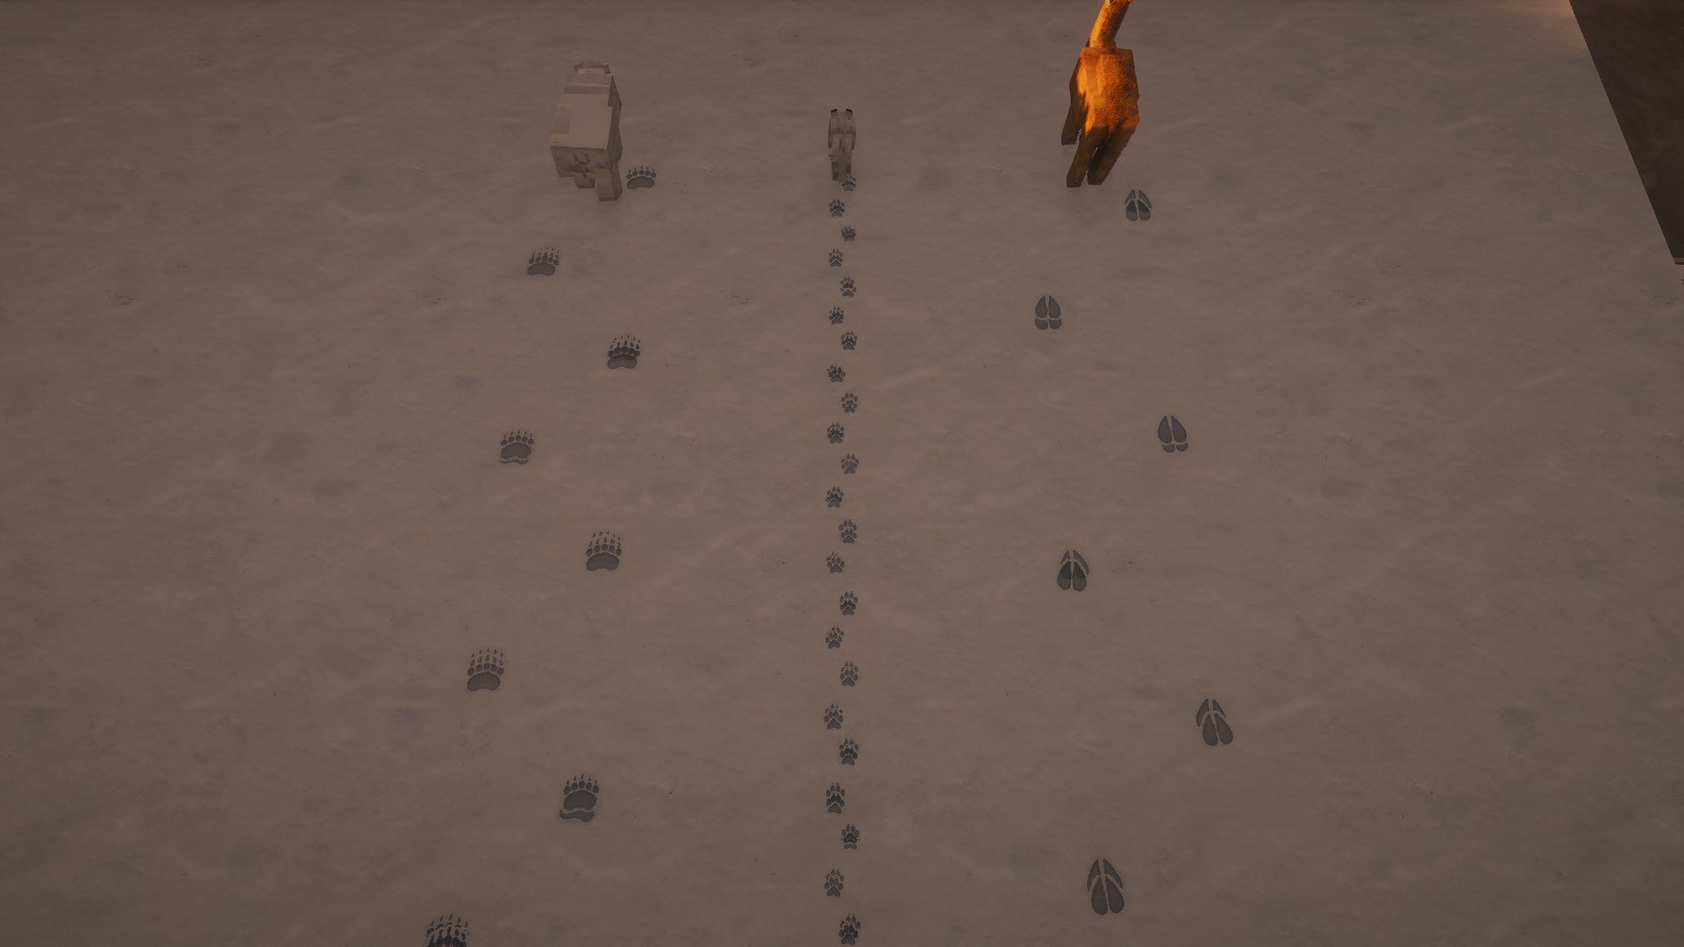
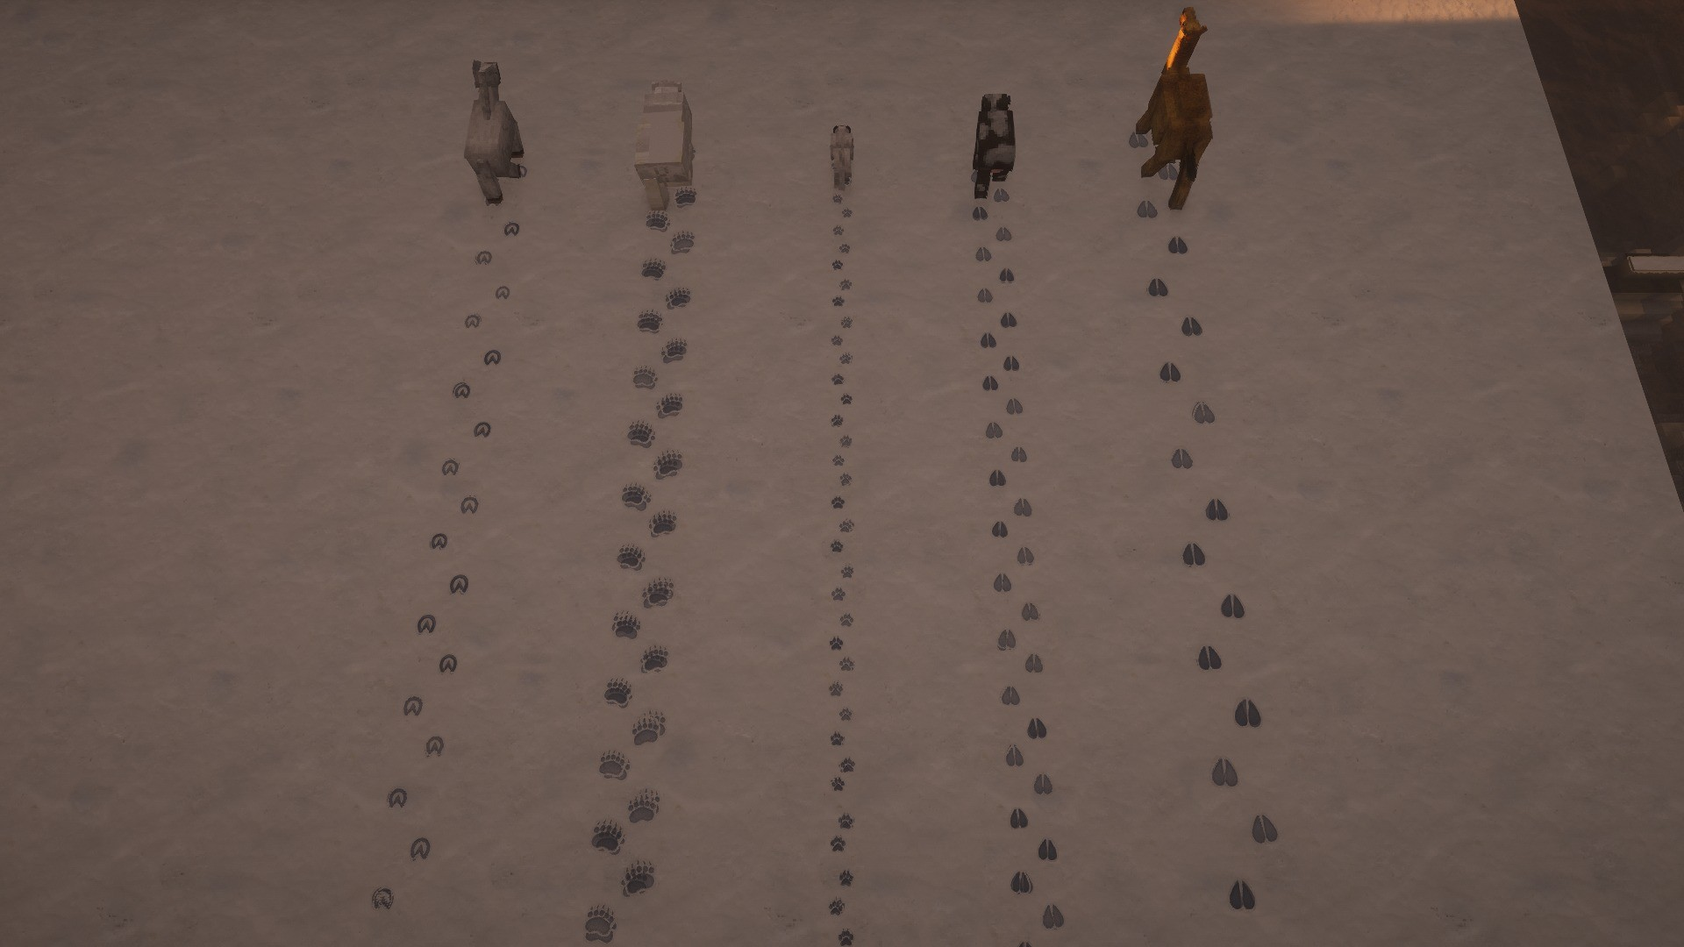
Quadruped tracks from the real hips of each model; hoof frog points at the toe
The trails of big animals were up to three times wider than the animal: the foot offset was
scaled by the bounding box on top of a per-profile spacing, so a polar bear's prints landed a
block to each side of it and a camel's two blocks apart, with steps far longer than its legs.

Every four-legged mob now has its own profile built from the vanilla model's leg pivots and
renderer scale (wolf, fox, armadillo, cat, ocelot, creeper, horse, donkey, mule, cow, llama,
pig/sheep, goat, hoglin, polar bear, panda, camel, sniffer with six legs, ravager). The front
foot prints just ahead of its hip; every foot behind it on the same side lands in that print
once its own hip gets there (direct register, as in real walking and trotting tracks), at its
own stance width. Bears overstep a little and turn their toes in. Stride is about 0.7 of the
hip-to-hip distance and grows with speed; babies are scaled down.

The Codex horse print had its frog pointing at the heel; tools/build_footprints.py now flips
the frog so its point faces the toe, and the atlases are rebuilt.

Media re-recorded with the new tracks; media/publish_media.sh rebuilds trailer, banner, logo,
card, gallery and GIFs in one go.

diff --git a/src/main/java/online/farmsteadminecraft/footprints/client/FootProfile.java b/src/main/java/online/farmsteadminecraft/footprints/client/FootProfile.java
@@ -1,27 +1,79 @@
 package online.farmsteadminecraft.footprints.client;
 
 /**
- * How a kind of entity walks.
+ * How a kind of entity walks and what its feet leave behind. All distances are blocks for an adult
+ * (babies are scaled by the entity's scale).
  *
- * @param left       mask for the left foot
- * @param right      mask for the right foot
- * @param stride     blocks travelled between two prints
- * @param spacing    sideways distance of a foot from the body centre
- * @param quadruped  four-legged: the hind foot lands in the front print of its side (a doubled print)
- * @param scale      size multiplier for the mask
+ * <p>Two-legged walkers alternate left and right {@code stride} apart, {@code spacing} off the
+ * centre line.</p>
+ *
+ * <p>Four-legged (and six-legged) walkers follow real track patterns: in a walk or trot the feet of
+ * one side come down one after another in the same place — the hind foot lands in the print the front
+ * foot of that side just left ("direct register"). So the trail is a single zig-zag line of prints,
+ * left, right, left, as wide as the animal's stance and no wider. {@code legs} are the hip positions
+ * of one side taken from the vanilla model, front first: {lateral, forward, lateral, forward, ...}.
+ * A hind foot lands {@code register} ahead of the front print (bears overstep a little, so their hind
+ * print sits just in front of and outside the front one), and at its own lateral offset.</p>
+ *
+ * @param left      mask for the left foot
+ * @param right     mask for the right foot
+ * @param stride    blocks between two successive prints (left to right) at walking pace
+ * @param spacing   two-legged: sideways distance of a foot from the centre line
+ * @param legs      four-legged: hips of one side, front first, as {lateral, forward} pairs; null for bipeds
+ * @param register  four-legged: how far ahead of the front print the hind feet land
+ * @param toeIn     degrees the toes turn towards the centre line (bears walk pigeon-toed)
+ * @param scale     size multiplier for the mask
  */
-public record FootProfile(FootShape left, FootShape right, float stride, float spacing, boolean quadruped, float scale) {
-    public static final FootProfile BOOTS = new FootProfile(FootShape.BOOT_LEFT, FootShape.BOOT_RIGHT, 0.92f, 0.13f, false, 1f);
-    public static final FootProfile BAREFOOT = new FootProfile(FootShape.BARE_LEFT, FootShape.BARE_RIGHT, 0.92f, 0.13f, false, 1f);
-    public static final FootProfile CHILD = new FootProfile(FootShape.BARE_LEFT, FootShape.BARE_RIGHT, 0.55f, 0.08f, false, 0.6f);
-    public static final FootProfile PAW = new FootProfile(FootShape.PAW, FootShape.PAW, 0.62f, 0.12f, true, 1f);
-    public static final FootProfile SMALL_PAW = new FootProfile(FootShape.CAT, FootShape.CAT, 0.42f, 0.09f, true, 1f);
-    public static final FootProfile HOOF = new FootProfile(FootShape.HOOF, FootShape.HOOF, 0.95f, 0.22f, true, 1.1f);
-    public static final FootProfile SMALL_HOOF = new FootProfile(FootShape.CLOVEN, FootShape.CLOVEN, 0.6f, 0.16f, true, 1f);
-    public static final FootProfile BIRD = new FootProfile(FootShape.BIRD, FootShape.BIRD, 0.30f, 0.09f, false, 0.8f);
-    public static final FootProfile GIANT = new FootProfile(FootShape.BIG_LEFT, FootShape.BIG_RIGHT, 1.45f, 0.42f, false, 1f);
-    public static final FootProfile CLOVEN = new FootProfile(FootShape.CLOVEN, FootShape.CLOVEN, 0.95f, 0.22f, true, 1.25f);
-    /** Camels walk on two broad toes: the cloven mask, much larger. */
-    public static final FootProfile CAMEL = new FootProfile(FootShape.CLOVEN, FootShape.CLOVEN, 1.2f, 0.36f, true, 1.9f);
-    public static final FootProfile GIANT_PAW = new FootProfile(FootShape.BEAR, FootShape.BEAR, 1.1f, 0.38f, true, 1.2f);
+public record FootProfile(FootShape left, FootShape right, float stride, float spacing, float[] legs, float register,
+                          float toeIn, float scale) {
+
+    public boolean quadruped() {
+        return legs != null;
+    }
+
+    static FootProfile biped(FootShape left, FootShape right, float stride, float spacing, float scale) {
+        return new FootProfile(left, right, stride, spacing, null, 0f, 0f, scale);
+    }
+
+    /** {@code legs}: model pivots of the left legs in model pixels (x, z), front first; {@code model} the renderer scale. */
+    static FootProfile quad(FootShape shape, float scale, float stride, float register, float toeIn, float model, float... legs) {
+        float[] blocks = new float[legs.length];
+        for (int i = 0; i < legs.length; i += 2) {
+            blocks[i] = Math.abs(legs[i]) / 16f * model;   // lateral
+            blocks[i + 1] = -legs[i + 1] / 16f * model;     // model -z is forward
+        }
+        return new FootProfile(shape, shape, stride, 0f, blocks, register, toeIn, scale);
+    }
+
+    public static final FootProfile BOOTS = biped(FootShape.BOOT_LEFT, FootShape.BOOT_RIGHT, 0.92f, 0.13f, 1f);
+    public static final FootProfile BAREFOOT = biped(FootShape.BARE_LEFT, FootShape.BARE_RIGHT, 0.92f, 0.13f, 1f);
+    public static final FootProfile CHILD = biped(FootShape.BARE_LEFT, FootShape.BARE_RIGHT, 0.55f, 0.08f, 0.6f);
+    public static final FootProfile BIRD = biped(FootShape.BIRD, FootShape.BIRD, 0.30f, 0.09f, 0.8f);
+    /** Iron golems and wardens: legs about 4.5–6 model pixels off the centre. */
+    public static final FootProfile GIANT = biped(FootShape.BIG_LEFT, FootShape.BIG_RIGHT, 1.3f, 0.3f, 1f);
+
+    // Hip positions below are the vanilla model's leg pivots (client/model/*Model.java); the stride is
+    // about 0.7 of the distance between front and hind hips, as in a real walk with direct register.
+    public static final FootProfile WOLF = quad(FootShape.PAW, 0.85f, 0.48f, 0f, 0f, 1f, 1.5f, -4f, 1.5f, 7f);
+    public static final FootProfile FOX = quad(FootShape.PAW, 0.7f, 0.34f, 0f, 0f, 1f, 2f, 0f, 2f, 7f);
+    public static final FootProfile ARMADILLO = quad(FootShape.PAW, 0.6f, 0.3f, 0f, 0f, 1f, 2f, -4f, 2f, 4f);
+    public static final FootProfile CAT = quad(FootShape.CAT, 0.85f, 0.34f, 0f, 0f, 0.8f, 1.2f, -5f, 1.1f, 5f);
+    public static final FootProfile OCELOT = quad(FootShape.CAT, 0.9f, 0.4f, 0f, 0f, 1f, 1.2f, -5f, 1.1f, 5f);
+    public static final FootProfile CREEPER = quad(FootShape.CAT, 0.9f, 0.32f, 0f, 0f, 1f, 2f, -4f, 2f, 4f);
+    public static final FootProfile HORSE = quad(FootShape.HOOF, 1.0f, 0.85f, 0f, 0f, 1.1f, 4f, -12f, 4f, 7f);
+    public static final FootProfile DONKEY = quad(FootShape.HOOF, 0.85f, 0.68f, 0f, 0f, 0.87f, 4f, -12f, 4f, 7f);
+    public static final FootProfile MULE = quad(FootShape.HOOF, 0.9f, 0.72f, 0f, 0f, 0.92f, 4f, -12f, 4f, 7f);
+    public static final FootProfile COW = quad(FootShape.CLOVEN, 1.3f, 0.56f, 0f, 0f, 1f, 4f, -6f, 4f, 7f);
+    public static final FootProfile LLAMA = quad(FootShape.CLOVEN, 1.1f, 0.48f, 0f, 0f, 1f, 3.5f, -5f, 3.5f, 6f);
+    public static final FootProfile PIG = quad(FootShape.CLOVEN, 0.95f, 0.5f, 0f, 0f, 1f, 3f, -5f, 3f, 7f);
+    public static final FootProfile GOAT = quad(FootShape.CLOVEN, 0.9f, 0.42f, 0f, 0f, 1f, 2f, -4.5f, 2f, 5.5f);
+    public static final FootProfile HOGLIN = quad(FootShape.CLOVEN, 1.5f, 0.78f, 0f, 0f, 1f, 4f, -8.5f, 5f, 10f);
+    /** Bears overstep slightly and walk pigeon-toed: the hind print lands just ahead of and outside the front one. */
+    public static final FootProfile POLAR_BEAR = quad(FootShape.BEAR, 1.0f, 0.68f, 0.12f, 12f, 1.2f, 3.5f, -8f, 4.5f, 6f);
+    public static final FootProfile PANDA = quad(FootShape.BEAR, 1.0f, 0.72f, 0.1f, 10f, 1f, 5.5f, -9f, 5.5f, 9f);
+    /** Camels have two broad toes on a soft pad: the cloven mask, large, on long legs. */
+    public static final FootProfile CAMEL = quad(FootShape.CLOVEN, 1.75f, 1.05f, 0f, 0f, 1f, 4.9f, -10.5f, 4.9f, 9.5f);
+    /** Six legs: the middle and hind feet both land in the front print. */
+    public static final FootProfile SNIFFER = quad(FootShape.CLOVEN, 1.6f, 1.2f, 0f, 0f, 1f, 7.5f, -15f, 7.5f, 0f, 7.5f, 15f);
+    public static final FootProfile RAVAGER = quad(FootShape.HOOF, 1.6f, 0.95f, 0f, 0f, 1f, 8f, -5f, 8f, 18f);
 }

diff --git a/src/main/java/online/farmsteadminecraft/footprints/client/StepTracker.java b/src/main/java/online/farmsteadminecraft/footprints/client/StepTracker.java
@@ -35,12 +35,12 @@ public final class StepTracker {
         boolean valid;
         /** Distance walked since the track started; hind prints wait for it. */
         double odometer;
-        /** Quadrupeds: the hind foot still to come down in the last front print (at most one per side). */
-        final HindStep[] hind = new HindStep[2];
+        /** Four-legged: the trailing feet still to come down in the last front print of each side. */
+        final java.util.List<HindStep> hind = new java.util.ArrayList<>(4);
     }
 
-    /** A hind foot that lands in the front print of its side once the body has moved on by its length. */
-    private record HindStep(double x, double z, float yaw, FootShape shape, double dueAt) {}
+    /** A trailing foot that comes down in the front print of its side once its hip has reached it. */
+    private record HindStep(boolean right, double x, double z, float yaw, FootShape shape, double dueAt) {}
 
     public void tick(ClientLevel level, Vec3 camera, long now) {
         double maxDistSq = (double) FootprintsConfig.RENDER_DISTANCE.value() * FootprintsConfig.RENDER_DISTANCE.value();
@@ -59,7 +59,7 @@ public final class StepTracker {
                 track.lastX = x;
                 track.lastZ = z;
                 track.walked = 0;
-                track.hind[0] = track.hind[1] = null;
+                track.hind.clear();
                 track.valid = true;
                 continue;
             }
@@ -68,21 +68,23 @@ public final class StepTracker {
             track.lastZ = z;
             if (moved > TELEPORT_DISTANCE) {
                 track.walked = 0;
-                track.hind[0] = track.hind[1] = null;
+                track.hind.clear();
                 continue;
             }
             FootProfile profile = FootProfiles.of(living);
             if (profile == null) continue;
             track.walked += moved;
             track.odometer += moved;
-            for (int side = 0; side < 2; side++) {
-                HindStep h = track.hind[side];
-                if (h != null && track.odometer >= h.dueAt()) {
-                    track.hind[side] = null;
-                    hindPrint(level, living, profile, h, now);
+            for (java.util.Iterator<HindStep> it = track.hind.iterator(); it.hasNext(); ) {
+                HindStep h = it.next();
+                if (track.odometer >= h.dueAt()) {
+                    it.remove();
+                    place(level, living, profile, h.shape(), h.x(), h.z(), h.yaw(), now);
                 }
             }
-            float stride = profile.stride() * Math.max(0.5f, e.getBbWidth() / 0.6f * 0.6f + 0.4f);
+            // Steps lengthen with speed, like a walk turning into a trot (per tick: 0.1 is a stroll, 0.3+ a run)
+            float pace = Mth.clamp(0.85f + 1.5f * (float) moved, 0.9f, 1.5f);
+            float stride = profile.stride() * pace * (profile.quadruped() ? scaleOf(living) : 1f);
             if (track.walked >= stride) {
                 track.walked -= stride;
                 if (track.walked > stride) track.walked = 0;
@@ -114,6 +116,11 @@ public final class StepTracker {
         return Math.abs(e.getY() - top) < 0.02;
     }
 
+    /** Babies are smaller; on 1.21+ the scale attribute too. */
+    private static float scaleOf(LivingEntity e) {
+        return Math.max(0.2f, e.getScale());
+    }
+
     private void step(ClientLevel level, LivingEntity e, FootProfile profile, Track track, boolean right, long now) {
         float yaw = e.getYRot();
         if (!(e instanceof net.minecraft.world.entity.player.Player)) yaw = e.yBodyRot;
@@ -121,29 +128,39 @@ public final class StepTracker {
         // Minecraft yaw 0 faces +Z; right of that is -X
         double fx = -Math.sin(rad), fz = Math.cos(rad);
         double rx = -Math.cos(rad), rz = -Math.sin(rad);
-        double side = (right ? 1 : -1) * profile.spacing() * Math.max(1f, e.getBbWidth() / 0.6f);
-        if (profile.quadruped()) {
-            // A walking four-legged animal "registers": the hind foot comes down in (or just behind) the
-            // print the front foot of the SAME side left. So the trail is one alternating line, left,
-            // right, left, each print doubled, not pairs of prints per side. The front foot prints now;
-            // the hind foot of this side follows once the body has moved on by its length.
-            double half = Math.max(0.25, e.getBbWidth() * 0.45);
-            double px = e.getX() + rx * side + fx * half, pz = e.getZ() + rz * side + fz * half;
-            FootShape shape = right ? profile.right() : profile.left();
-            place(level, e, profile, shape, px, pz, yaw, now);
-            HindStep pending = track.hind[right ? 1 : 0];
-            if (pending != null) hindPrint(level, e, profile, pending, now);  // never drop a foot
-            track.hind[right ? 1 : 0] = new HindStep(px, pz, yaw, shape, track.odometer + 2 * half);
-        } else {
-            place(level, e, profile, right ? profile.right() : profile.left(), e.getX() + rx * side, e.getZ() + rz * side, yaw, now);
+        double sign = right ? 1 : -1;
+        FootShape shape = right ? profile.right() : profile.left();
+        if (!profile.quadruped()) {
+            double side = sign * profile.spacing();
+            place(level, e, profile, shape, e.getX() + rx * side, e.getZ() + rz * side, yaw, now);
+            return;
         }
-    }
-
-    /** The hind foot lands a little short of the front print, so the pair reads as one doubled print. */
-    private void hindPrint(ClientLevel level, LivingEntity e, FootProfile profile, HindStep h, long now) {
-        double rad = Math.toRadians(h.yaw());
-        double back = 0.12 * profile.scale();
-        place(level, e, profile, h.shape(), h.x() + Math.sin(rad) * back, h.z() - Math.cos(rad) * back, h.yaw(), now);
+        // The front foot of this side comes down a little ahead of its hip; every foot behind it on the
+        // same side will land in that same print (offset by the register and its own stance width) once
+        // its hip has travelled the distance between the two hips. Trailing feet of this side that have
+        // not landed yet do so now: a foot is never dropped.
+        float k = scaleOf(e);
+        float[] legs = profile.legs();
+        double lat0 = legs[0] * k, fwd0 = legs[1] * k;
+        double ahead = profile.stride() * k * 0.3;
+        double px = e.getX() + rx * sign * lat0 + fx * (fwd0 + ahead);
+        double pz = e.getZ() + rz * sign * lat0 + fz * (fwd0 + ahead);
+        float toe = yaw - (float) sign * profile.toeIn(); // toes turned towards the centre line
+        for (java.util.Iterator<HindStep> it = track.hind.iterator(); it.hasNext(); ) {
+            HindStep h = it.next();
+            if (h.right() == right) {
+                it.remove();
+                place(level, e, profile, h.shape(), h.x(), h.z(), h.yaw(), now);
+            }
+        }
+        place(level, e, profile, shape, px, pz, toe, now);
+        double reg = profile.register() * k;
+        for (int i = 2; i < legs.length; i += 2) {
+            double lat = legs[i] * k, fwd = legs[i + 1] * k;
+            double hx = px + rx * sign * (lat - lat0) + fx * reg;
+            double hz = pz + rz * sign * (lat - lat0) + fz * reg;
+            track.hind.add(new HindStep(right, hx, hz, toe, shape, track.odometer + (fwd0 - fwd) + reg));
+        }
     }
 
     private void place(ClientLevel level, LivingEntity e, FootProfile profile, FootShape shape, double x, double z, float yaw, long now) {

diff --git a/src/main/java/online/farmsteadminecraft/footprints/client/FootProfiles.java b/src/main/java/online/farmsteadminecraft/footprints/client/FootProfiles.java
@@ -25,32 +25,34 @@ public final class FootProfiles {
                 "skeleton", "stray", "wither_skeleton", "bogged", "enderman"}) {
             BY_ID.put("minecraft:" + id, FootProfile.BAREFOOT);
         }
-        for (String id : new String[]{"wolf", "fox", "armadillo"}) {
-            BY_ID.put("minecraft:" + id, FootProfile.PAW);
-        }
-        for (String id : new String[]{"cat", "ocelot", "creeper"}) {
-            BY_ID.put("minecraft:" + id, FootProfile.SMALL_PAW);
-        }
-        for (String id : new String[]{"horse", "donkey", "mule", "skeleton_horse", "zombie_horse"}) {
-            BY_ID.put("minecraft:" + id, FootProfile.HOOF);
-        }
-        for (String id : new String[]{"cow", "mooshroom", "llama", "trader_llama", "hoglin", "zoglin"}) {
-            BY_ID.put("minecraft:" + id, FootProfile.CLOVEN);
-        }
-        for (String id : new String[]{"pig", "sheep", "goat"}) {
-            BY_ID.put("minecraft:" + id, FootProfile.SMALL_HOOF);
-        }
-        BY_ID.put("minecraft:chicken", FootProfile.BIRD);
-        for (String id : new String[]{"iron_golem", "ravager", "warden"}) {
-            BY_ID.put("minecraft:" + id, FootProfile.GIANT);
-        }
-        BY_ID.put("minecraft:camel", FootProfile.CAMEL);
-        for (String id : new String[]{"polar_bear", "panda", "sniffer"}) {
-            BY_ID.put("minecraft:" + id, FootProfile.GIANT_PAW);
-        }
+        put(FootProfile.WOLF, "wolf");
+        put(FootProfile.FOX, "fox");
+        put(FootProfile.ARMADILLO, "armadillo");
+        put(FootProfile.CAT, "cat");
+        put(FootProfile.OCELOT, "ocelot");
+        put(FootProfile.CREEPER, "creeper");
+        put(FootProfile.HORSE, "horse", "skeleton_horse", "zombie_horse");
+        put(FootProfile.DONKEY, "donkey");
+        put(FootProfile.MULE, "mule");
+        put(FootProfile.COW, "cow", "mooshroom");
+        put(FootProfile.LLAMA, "llama", "trader_llama");
+        put(FootProfile.HOGLIN, "hoglin", "zoglin");
+        put(FootProfile.PIG, "pig", "sheep");
+        put(FootProfile.GOAT, "goat");
+        put(FootProfile.BIRD, "chicken");
+        put(FootProfile.GIANT, "iron_golem", "warden");
+        put(FootProfile.RAVAGER, "ravager");
+        put(FootProfile.POLAR_BEAR, "polar_bear");
+        put(FootProfile.PANDA, "panda");
+        put(FootProfile.SNIFFER, "sniffer");
+        put(FootProfile.CAMEL, "camel");
     }
 
     private FootProfiles() {
+    }
+
+    private static void put(FootProfile profile, String... ids) {
+        for (String id : ids) BY_ID.put("minecraft:" + id, profile);
     }
 
     /** @return the profile, or {@code null} if this entity leaves no prints */

diff --git a/tools/build_footprints.py b/tools/build_footprints.py
@@ -63,6 +63,42 @@ def left_heavy(ink: Image.Image) -> bool:
     return total > 0 and mx / total < w / 2
 
 
+def frog_toward_toe(ink: Image.Image) -> Image.Image:
+    """The Codex horse print has its frog (the V inside the shoe) pointing at the heel. On a real hoof the
+    frog's point faces the toe, so the frog — the inked blob not joined to the shoe — is flipped top to
+    bottom in place."""
+    w, h = ink.size
+    px = ink.load()
+    seen = [[False] * w for _ in range(h)]
+    blobs = []
+    for y0 in range(h):
+        for x0 in range(w):
+            if seen[y0][x0] or px[x0, y0] <= 40:
+                continue
+            stack, pts = [(x0, y0)], []
+            seen[y0][x0] = True
+            while stack:
+                x, y = stack.pop()
+                pts.append((x, y))
+                for nx, ny in ((x + 1, y), (x - 1, y), (x, y + 1), (x, y - 1)):
+                    if 0 <= nx < w and 0 <= ny < h and not seen[ny][nx] and px[nx, ny] > 40:
+                        seen[ny][nx] = True
+                        stack.append((nx, ny))
+            blobs.append(pts)
+    blobs.sort(key=len, reverse=True)
+    if len(blobs) < 2:
+        return ink
+    frog = blobs[1]  # the shoe is the biggest blob, the frog the next one
+    top, bottom = min(y for _, y in frog), max(y for _, y in frog)
+    out = ink.copy()
+    op = out.load()
+    for x, y in frog:
+        op[x, y] = 0
+    for x, y in frog:
+        op[x, top + bottom - y] = px[x, y]
+    return out
+
+
 def fit(print_ink: Image.Image) -> tuple[Image.Image, float]:
     pw, ph = print_ink.size
     scale = FILL * CELL / max(pw, ph)
@@ -102,6 +138,7 @@ def layers(ink: Image.Image, seed: int) -> tuple[Image.Image, Image.Image]:
 def main(sheet_path: str) -> None:
     ink = ink_of(Image.open(sheet_path))
     prints = {i: cut(ink, i) for i in range(12)}
+    prints[6] = frog_toward_toe(prints[6])
     for left, right in ((0, 1), (2, 3)):
         if left_heavy(prints[left]) and not left_heavy(prints[right]):
             prints[left], prints[right] = prints[right], prints[left]

diff --git a/media/film.py b/media/film.py
@@ -307,11 +307,12 @@ def shot_gait(vet=True):
     (alternating left/right, the hind foot in the front print) can be read at a glance."""
     frames = 300
     setup, cues = [], []
-    for i, (kind, x) in enumerate([("polar_bear", 1781.5), ("wolf", 1786.5), ("camel", 1791.5)]):
+    for i, (kind, x) in enumerate([("horse", 1777.5), ("polar_bear", 1781.5), ("wolf", 1785.5), ("cow", 1789.0),
+                                   ("camel", 1793.0)]):
         a, b = (x, -1778.0), (x, -1796.0)
         setup.append(summon(kind, f"gait{i}", a, SNOW_Y, toward=b))
         cues += mob_cues(f"@e[tag=gait{i},limit=1]", [a, b], frames, SNOW_Y)
-    key = {"pos": [1786.5, 106.0, -1783.0], "look": [1786.5, SNOW_Y, -1788.0], "fov": 60, "ease": "linear"}
+    key = {"pos": [1785.5, 108.0, -1783.0], "look": [1785.5, SNOW_Y, -1788.0], "fov": 62, "ease": "linear"}
     cam = [dict(key, frame=0), dict(key, frame=frames)]
     return vet_or_record("footprints_gait", cam, frames, setup, cues=cues, vet=vet)
 

diff --git a/CHANGELOG.md b/CHANGELOG.md
@@ -7,7 +7,7 @@ All notable changes to Footprints. Versions follow [Semantic Versioning](https:/
 First release.
 
 - Footprints for players and 47 mobs, each with its own foot shape; children and baby zombies leave smaller prints.
-- Four-legged animals walk with a real gait: the hind foot lands in the front print of the same side.
+- Four-legged animals leave real track patterns: one zig-zag line as wide as the animal's stance (hip positions from each vanilla model), the hind foot landing in the front print of the same side; bears overstep slightly and walk pigeon-toed; sniffers put all three feet of a side in one print. Steps lengthen with speed.
 - Soft surfaces: snow, powder snow, sand, red sand, mud, muddy mangrove roots, gravel, dirt, coarse dirt, rooted dirt, podzol, mycelium, farmland, clay, soul sand, soul soil. Prints sit on top of thin snow layers.
 - Two-layer prints (hollow and lip) coloured from the ground they sit on; they fade after 1.5–5 minutes depending on the surface.
 - Works with Sodium and Iris shader packs.
